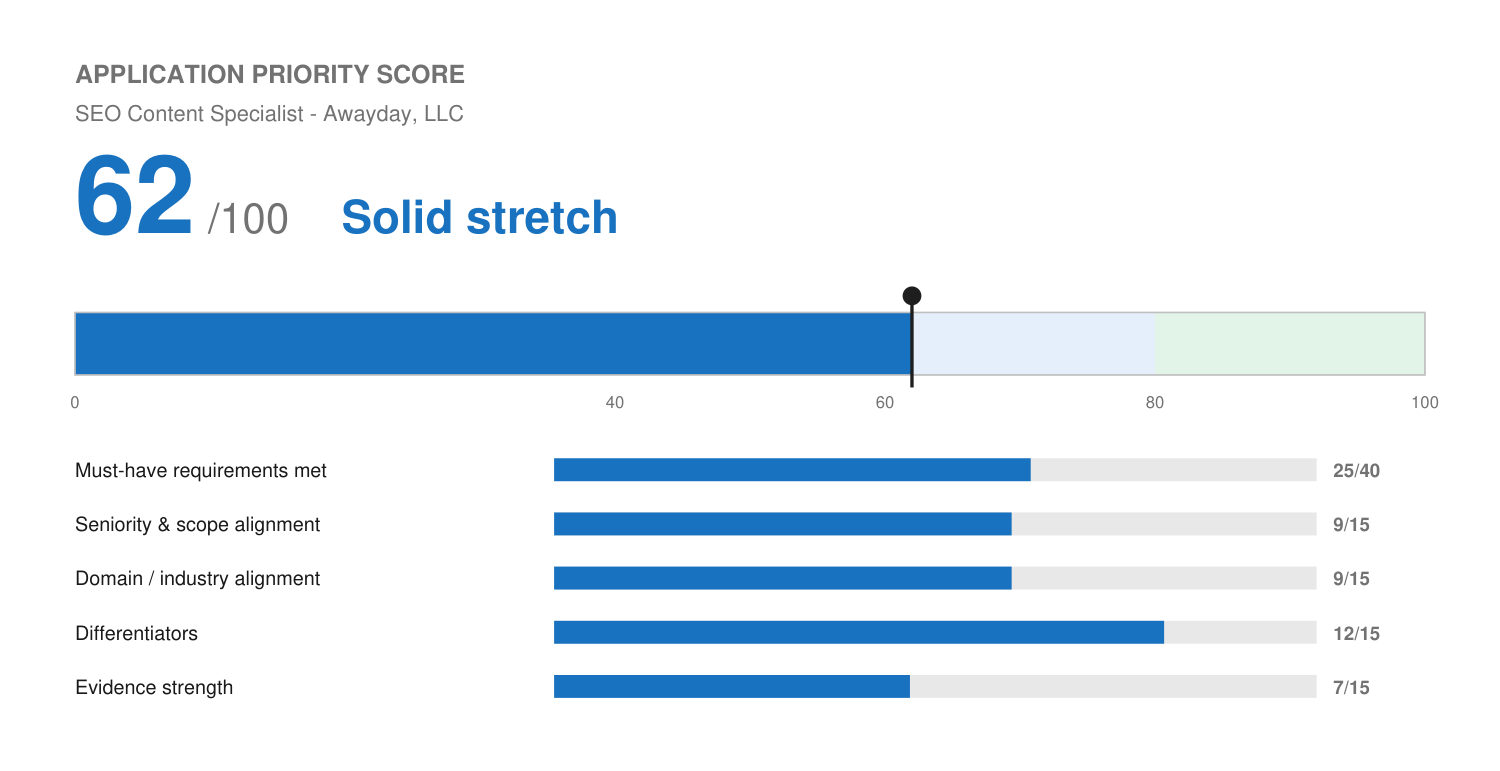
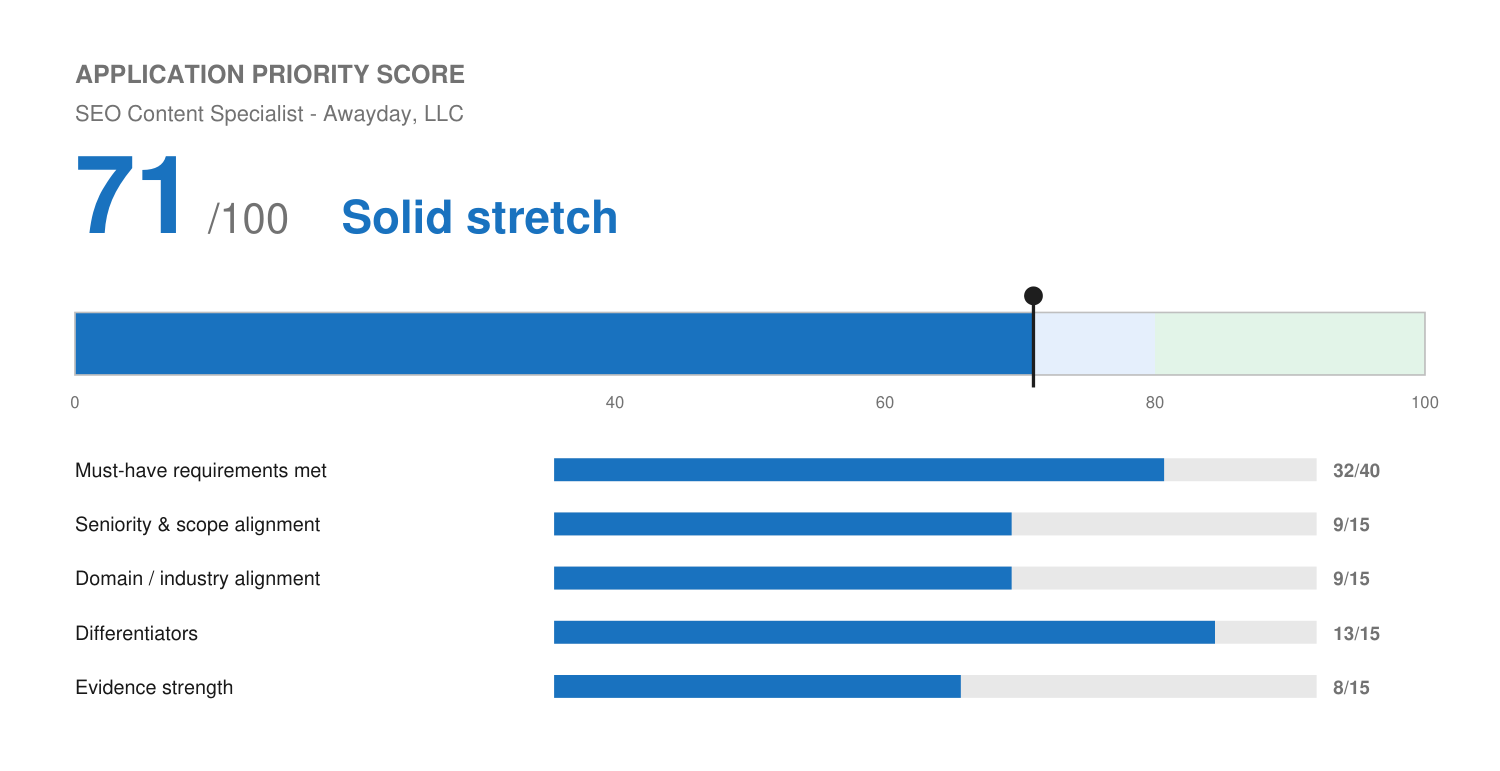
Record Screaming Frog, schema/structured data, and ClickUp experience; update Awayday package
Master profile updated with all three confirmations. Awayday resume, cover letter,
fit score (62 -> 71), and match report revised accordingly.

Claude-Session: https://claude.ai/code/session_012bgCHkXVGvrCAAv9cv5gL6

diff --git a/applications/awayday-seo-content-specialist/match-report.md b/applications/awayday-seo-content-specialist/match-report.md
@@ -20,12 +20,12 @@ the posting text supplied.
 | Work authorization | Application-form | Standard; answer accurately. |
 | 2-5 years SEO/content marketing/digital content management | Resume-evidenced | **Covered, well past the range.** 15+ years, though not all of it title-specific to "content management." |
 | On-page SEO: keyword research, intent, internal linking, content structure | Resume-evidenced | **Covered, strongly.** |
-| Meta tags, headers, alt text, basic schema | Resume-evidenced | **Partial.** Meta/headers/alt text covered; schema/structured data specifically **not documented — a real gap**, named explicitly under "nice to have." |
-| Semrush, ScreamingFrog, GA4, GSC, or similar | Resume-evidenced | **Partial.** Semrush, Ahrefs, GA4, GSC all covered; ScreamingFrog specifically not documented (same gap flagged on the Contractor Web Zone and Compound Growth applications). |
-| **Managing freelance/contract writers, giving structured feedback on their work** | Resume-evidenced | **Gap, with a partial analog.** Josh writes his own content rather than managing a roster of freelancers. The closest true parallel is managing a team of onboarding specialists at Wix and giving structured feedback there — a management/feedback pattern, but not writer management specifically. Named honestly in the cover letter rather than implied. |
+| Meta tags, headers, alt text, basic schema | Resume-evidenced | **Confirmed covered.** Schema/structured data is a named part of the technical SEO audit process, alongside meta/headers/alt text. |
+| Semrush, ScreamingFrog, GA4, GSC, or similar | Resume-evidenced | **Confirmed covered.** Uses Screaming Frog directly for site-wide SEO data pulls, alongside Semrush, Ahrefs, GA4, and GSC. |
+| **Managing freelance/contract writers, giving structured feedback on their work** | Resume-evidenced | **Gap, with a partial analog — the one remaining open item.** Josh writes his own content rather than managing a roster of freelancers. The closest true parallel is managing a team of onboarding specialists at Wix and giving structured feedback there — a management/feedback pattern, but not writer management specifically. Named honestly in the cover letter rather than implied. |
 | AI tools (ChatGPT, Claude, Perplexity) for content workflows | Resume-evidenced | **Covered, strongly.** Daily production use, not just familiarity. |
 | Familiarity with AI-driven search / answer-first formats | Resume-evidenced | **Adjacent.** Builds AI-driven marketing systems generally; not documented specifically as answer-first/AI-search content optimization. |
-| Project management tools, ClickUp specifically (bonus) | Resume-evidenced | **Partial.** Notion and Asana documented; ClickUp specifically not used. |
+| Project management tools, ClickUp specifically (bonus) | Resume-evidenced | **Confirmed covered.** Used ClickUp directly at Fetch & Funnel. |
 | SOP development for content workflows | Resume-evidenced | **Covered.** |
 | Cross-functional work with SEO/marketing/web teams | Resume-evidenced | **Covered.** |
 | Conversion rate best practices | Resume-evidenced | **Covered.** CRO work documented across Solenzo, Level, Wix. |
@@ -37,8 +37,8 @@ the posting text supplied.
 ## Application Priority Score
 
 ```
-🔵 Application Priority Score: 62 / 100 — Solid stretch
-[████████████░░░░░░░░]  62%
+🔵 Application Priority Score: 71 / 100 — Solid stretch
+[██████████████░░░░░░]  71%
 ```
 
 *Internal decision aid based on evidence in the master profile. Not a prediction of
@@ -46,16 +46,18 @@ Awayday's screening or hiring decision.* See `fit.png`.
 
 | Dimension | Score | Reasoning |
 | :--- | :--- | :--- |
-| Must-have requirements met | 25 / 40 | Core on-page SEO, keyword research, GA4/GSC, AI-tool use, SOP development, and cross-functional work all land solidly. Freelance-writer management, schema markup, and ScreamingFrog are real, named gaps. |
+| Must-have requirements met | 32 / 40 | Core on-page SEO, keyword research, GA4/GSC, AI-tool use, SOP development, schema/structured data, Screaming Frog, and ClickUp all confirmed. Freelance-writer management specifically is the one remaining real gap. |
 | Seniority & scope alignment | 9 / 15 | This is a distinct scope mismatch: the role is execution-heavy, reports to an SEO Manager, and centers on managing a roster of freelance writers day to day. Josh's background is strategic ownership and personal execution, not writer-team management specifically — a real, not cosmetic, shape difference from his usual roles. |
 | Domain / industry alignment | 9 / 15 | No hospitality or vacation-rental experience, explicitly a nice-to-have. Local-service and B2B SEO work transfers on mechanics, not on category familiarity. |
 | Differentiators | 12 / 15 | Genuine daily AI-tool use in production content workflows is a real differentiator against a posting that treats AI comfort as a baseline requirement. SOP-building habit and multi-client content consistency also transfer well. |
-| Evidence strength | 7 / 15 | Strong evidence for SEO mechanics (audits, keyword work, GA4 tracking) but nothing quantified for content production volume, writer output improvement, or organic traffic gains tied specifically to a content engagement. |
+| Evidence strength | 8 / 15 | Strong and now broader evidence for SEO mechanics (audits, keyword work, GA4 tracking, schema, tool-specific crawls). Still nothing quantified for content production volume, writer output improvement, or organic traffic gains tied specifically to a content engagement. |
 
-**Band: Solid stretch, lower end.** The SEO and content-production mechanics are a real
-match. The role's actual center of gravity — managing a stable of freelance writers day to
-day under a manager's direction — is a different job shape than Josh has held, and that's
-the honest reason the score sits lower than the other SEO-adjacent roles in this batch.
+**Band: Solid stretch** (revised 62 -> 71 after Josh confirmed schema, Screaming Frog, and
+ClickUp). The SEO and content-production mechanics are now a strong match on nearly every
+technical line. The role's actual center of gravity — managing a stable of freelance
+writers day to day under a manager's direction — remains the one real shape difference
+from Josh's usual roles, and that's the honest reason the score still sits below the
+stronger paid-search/growth applications in this batch rather than at the very top.
 
 ---
 
@@ -73,24 +75,21 @@ the honest reason the score sits lower than the other SEO-adjacent roles in this
 
 ## Gaps
 
-- **Freelance writer management specifically.** The single largest gap — this is roughly
-  40% of the role's responsibilities by the posting's own weighting, and Josh's experience
-  is writing his own content, not managing a roster of external contributors.
-- **Schema / structured data implementation.** Not documented.
-- **ScreamingFrog.** Third application in this batch where this specific tool is named and
-  unconfirmed.
+- **Freelance writer management specifically.** The single remaining real gap — this is
+  roughly 40% of the role's responsibilities by the posting's own weighting, and Josh's
+  experience is writing his own content and managing an internal team (Wix), not managing
+  a roster of external freelance contributors.
 - **Hospitality / vacation rental / travel industry.** Nice-to-have, not required.
-- **ClickUp specifically.** Named as a bonus tool.
 
 ## Candidate confirmation needed
 
 1. **Any writer management experience not currently documented?** Even informal — briefing
    a freelancer, reviewing contractor copy, coordinating multiple content contributors for
-   a client.
-2. **Any schema markup or structured data work?** Even basic JSON-LD implementation.
-3. **ScreamingFrog** — any hands-on crawl-and-audit use with it specifically? This keeps
-   recurring across SEO-adjacent applications and is worth confirming once.
-4. **Compensation expectation** — nothing published here to anchor against.
+   a client. This is now the only open question that would meaningfully move the score.
+2. **Compensation expectation** — nothing published here to anchor against.
+
+*Resolved Aug 27: schema/structured data, Screaming Frog, and ClickUp all confirmed and
+added to the resume, cover letter, and master profile.*
 
 ## Metrics needed
 

diff --git a/profile/master-profile.md b/profile/master-profile.md
@@ -175,7 +175,8 @@ operator talking, not like a candidate performing.
 - Design and deploy automated lifecycle sequences, onboarding workflows, and CRM architectures that activate, nurture, and retain high-value users at scale.
 - Architected and deployed a **complete GoHighLevel marketing-automation system — 20+ workflows** spanning lead capture/tagging/routing, lead qualification, appointment booking with confirmation and reminders, no-show recovery, post-sale onboarding nurture, long-term nurture/reactivation, and automated review-generation sequences.
 - Built segmented cold-email outreach engines in GHL (website-visibility, missed-calls, and low-reviews campaigns) plus an automated **prospect "audit" workflow that enrolled 180+ contacts**, scoring a business's digital footprint to trigger personalized outreach.
-- Conduct technical SEO audits, keyword gap analyses, and competitor research, implementing fixes directly inside client CMS platforms.
+- Conduct technical SEO audits, keyword gap analyses, and competitor research using Screaming Frog for site-wide SEO data pulls, implementing fixes directly inside client CMS platforms.
+- Identify and implement schema/structured data as part of technical SEO audits, pulling full on-page schema implementation. *(Confirmed by Josh, Aug 2026.)*
 - Optimized a client's Google Ads account — cut spam/low-quality leads and improved click-through quality — and diagnosed on-site CRO as the remaining conversion bottleneck, demonstrating full-funnel troubleshooting.
 - Write and publish thought leadership content, newsletters, and educational guides on systems architecture, CRM optimization, and operational growth for B2B audiences.
 - Draft clean, specific, ethically aligned direct-response copy, outreach sequences, and landing pages that drive engagement and pipeline.
@@ -215,7 +216,7 @@ operator talking, not like a candidate performing.
 - Analyzed partner utilization and performance metrics to identify adoption gaps and recommend interventions that reduced churn.
 
 ### Fetch & Funnel — Account Executive / Sales Operations (Sep 2022 – Feb 2023)
-- Ran client accounts end to end at a performance marketing agency, covering campaign execution, performance reporting, and cross-team communication.
+- Ran client accounts end to end at a performance marketing agency, covering campaign execution, performance reporting, and cross-team communication, managing workflows and tasks in ClickUp.
 - Built and refined internal processes that improved reporting accuracy, reduced handoff errors, and strengthened cross-team alignment.
 - Analyzed campaign performance data and translated results into optimization recommendations across paid media and creative.
 - Closed **6 new-client deals** during tenure, averaging **~$22K each (several exceeding $25K) — roughly $130K+ in total bookings**.
@@ -284,7 +285,7 @@ operator talking, not like a candidate performing.
 | Sales & Account Management | Full-cycle Sales, Pipeline Management, C-Suite Relationship Building, Strategic Advisory, Account Expansion |
 | Operations & Systems | Process Mapping, SOP Development, Workflow Decomposition, Project Management, Cross-functional Coordination |
 | Content & Writing | Thought Leadership, Direct Response Copy, Technical Translation, Brand Voice, Editorial Management |
-| Tools & Platforms | GoHighLevel, HubSpot, Salesforce, Notion, Slack, Asana, Monday.com, Jira, Zendesk, Google Apps, Procore |
+| Tools & Platforms | GoHighLevel, HubSpot, Salesforce, Notion, Slack, Asana, Monday.com, Jira, Zendesk, ClickUp, Screaming Frog, Google Apps, Procore |
 
 ---
 
